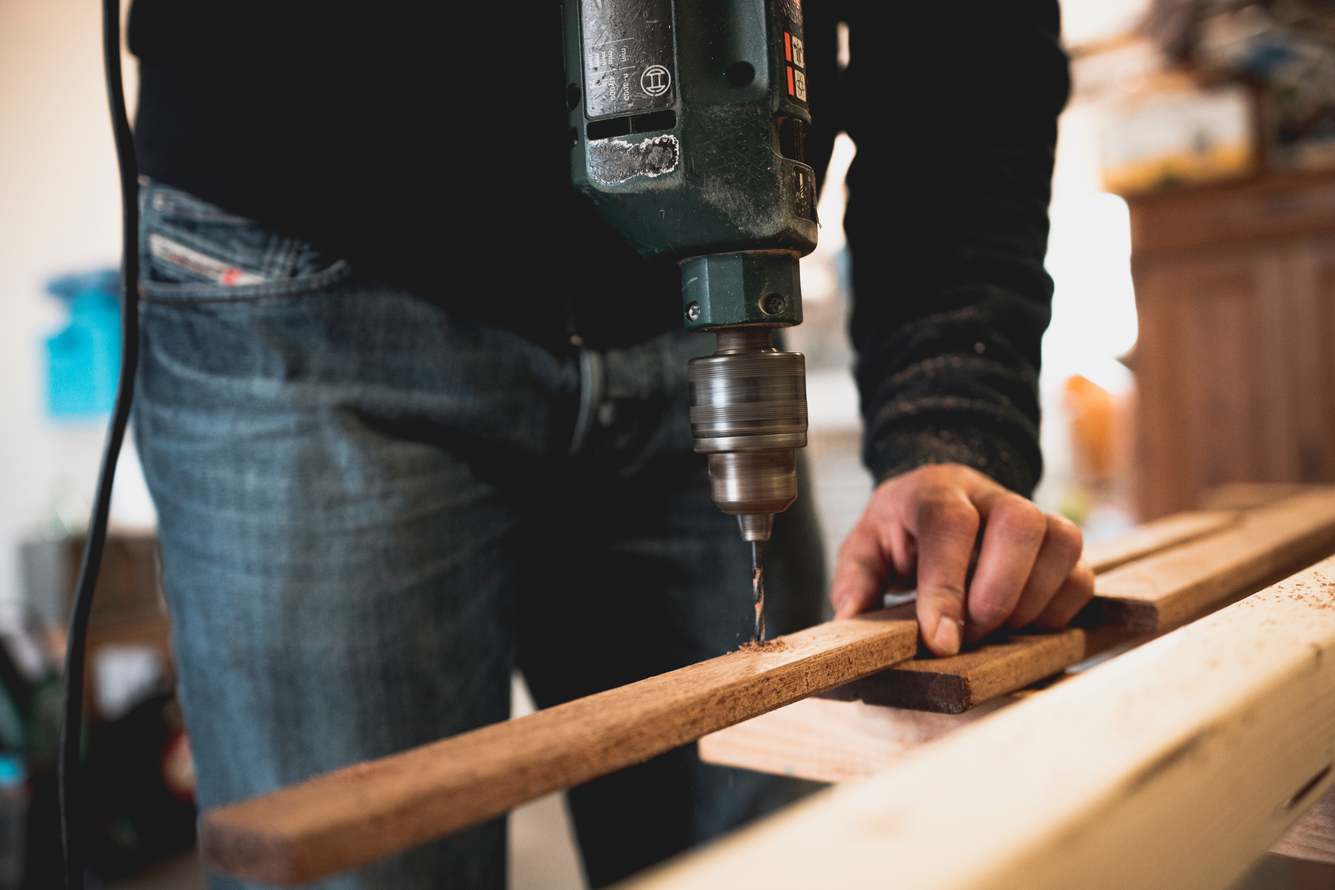
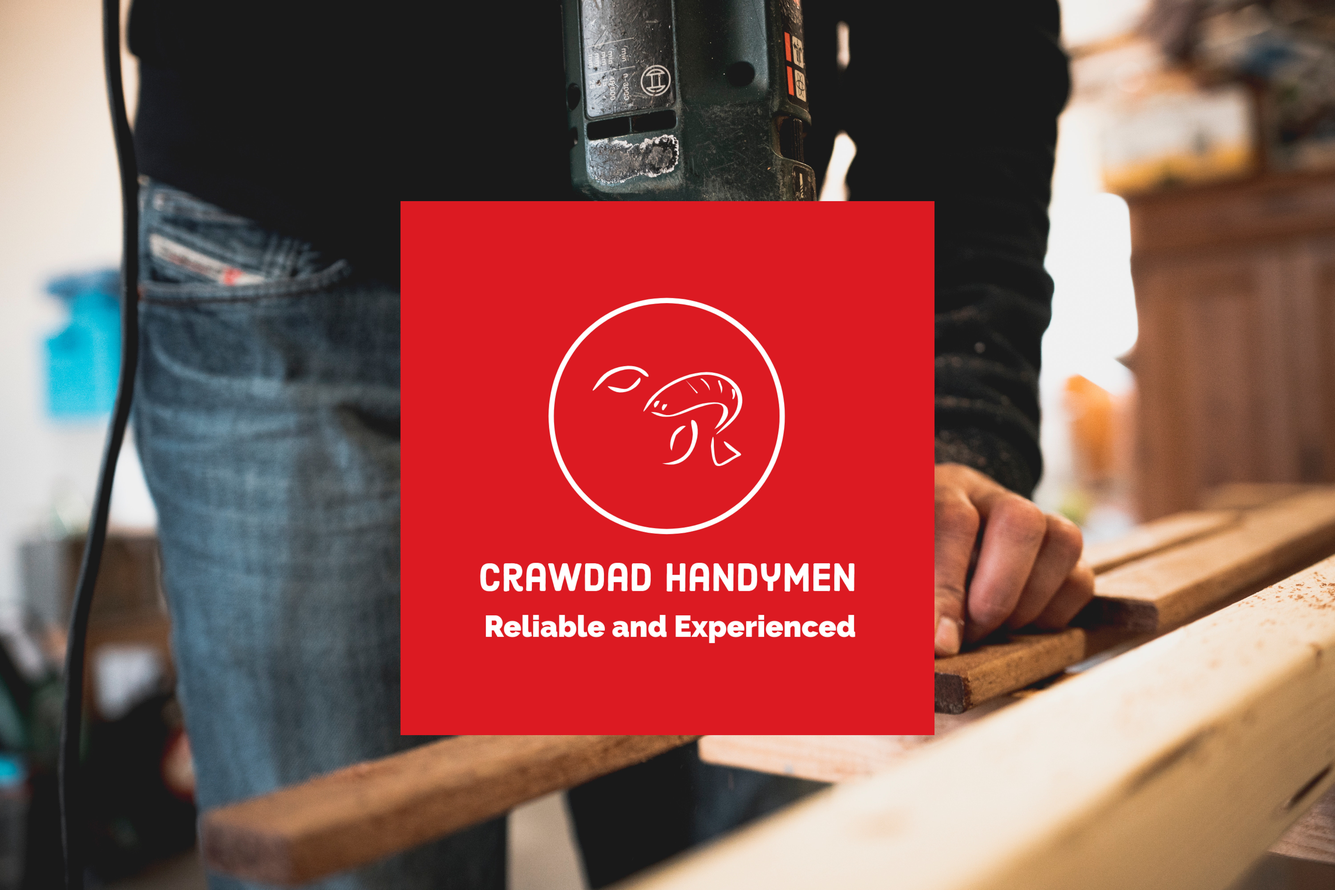
lots of progress, nearly done, dummy pics and data needs altering and footer needs formatting

Changed region(s): [[0.2805, 0.2188, 0.7168, 0.8438]]

diff --git a/src/app/home/home.page.html b/src/app/home/home.page.html
@@ -1,16 +1,102 @@
-<ion-header [translucent]="true">
-  <ion-toolbar>
-    <ion-title>
-      Crawdad Handymen
-    </ion-title>
-  </ion-toolbar>
-</ion-header>
-
 <ion-content [fullscreen]="true">
   <div id="page">
+
     <div id="cover">
-      <img src="../../assets/pics/stock.jpg" />
+      <img src="../../assets/pics/cover_v2.jpeg" />
     </div>
+
+    <div class="navArrow">
+      <ion-icon name="chevron-down-outline"></ion-icon>
+    </div>
+
+    <div id="content">
+
+      <div id="blurbs">
+        <div id="blurb">
+          <h2>Why Choose Us?</h2>
+          <p>By choosing us for your next project not only are you hiring qualified and experienced handymen for a fair
+            price,
+            but you are also supporting hard-working college students. </p>
+        </div>
+
+        <div id="blurbTwo">
+          <h2>Where Are We Located?</h2>
+          <h3>
+            <ion-icon name="location-outline"></ion-icon> Lubbock, Texas
+          </h3>
+        </div>
+      </div>
+
+      <div id="book">
+
+        <ion-card class="contact">
+          <ion-card-header>
+            <ion-icon name="mail-outline"></ion-icon>
+            <ion-card-title>Get in Touch</ion-card-title>
+            <ion-card-subtitle>We're happy to help with inquries and estimates.
+            </ion-card-subtitle>
+          </ion-card-header>
+          <ion-card-content>
+            <ion-item>
+              <ion-label position="floating">Name</ion-label>
+              <ion-input type="text"></ion-input>
+            </ion-item>
+            <ion-item>
+              <ion-label position="floating">Message</ion-label>
+              <ion-textarea></ion-textarea>
+            </ion-item>
+          </ion-card-content>
+          <div class="contactBtn">
+            <ion-button fill="outline" color="tertiary">Submit</ion-button>
+          </div>
+        </ion-card>
+      </div>
+
+    </div>
+
+    <div id="bottom">
+
+      <div id="portfolio">
+        <swiper id="slides" [autoplay]="true" [keyboard]="true" [pagination]="false" [scrollbar]="true" [zoom]="true" [loop]="true">
+          <ng-template swiperSlide><img class="pics" src="../../assets/pics/image2.jpeg" /></ng-template>
+          <ng-template swiperSlide><img class="pics" src="../../assets/pics/image3.jpeg" /></ng-template>
+          <ng-template swiperSlide><img class="pics" src="../../assets/pics/image4.jpeg" /></ng-template>
+          <ng-template swiperSlide><img class="pics" src="../../assets/pics/image5.jpeg" /></ng-template>
+          <ng-template swiperSlide><img class="pics" src="../../assets/pics/image6.jpeg" /></ng-template>
+          <ng-template swiperSlide><img class="pics" src="../../assets/pics/image8.jpeg" /></ng-template>
+          <ng-template swiperSlide><img class="pics" src="../../assets/pics/image9.jpeg" /></ng-template>
+          <ng-template swiperSlide><img class="pics" src="../../assets/pics/image0.jpeg" /></ng-template>
+          <ng-template swiperSlide><img class="pics" src="../../assets/pics/image1.jpeg" /></ng-template>
+        </swiper>
+      </div>
+
+      <div id="about">
+        <h2>Who Are We?</h2>
+
+        <div class="profile">
+          <img src="../../assets/pics/clown1.jpg" />
+          <h2>Gavin Naquin</h2>
+          <p>passionate about the quality of his clown career</p>
+        </div>
+
+        <div class="profile" id="profileTwo">
+          <img src="../../assets/pics/clown2.jpg" />
+          <h2>Luffy the Clown</h2>
+          <p>believes kids don't know what they want from clowns.</p>
+        </div>
+
+      </div>
+
+    </div>
+
+    <ion-footer>
+      <ion-toolbar>
+        <ion-title>Direct Contact Information</ion-title>
+        <ion-item>Email: clowns@clown.clown</ion-item>
+        <ion-item>Phone: 911 (in case Luffy snaps again)</ion-item>
+        <ion-item>Report Bug: aintgonnafixit@clown.clown</ion-item>
+      </ion-toolbar>
+    </ion-footer>
 
 
 

diff --git a/src/app/home/home.page.scss b/src/app/home/home.page.scss
@@ -1,3 +1,117 @@
-.cover{
- 
+@import '~swiper/scss';
+@import '~@ionic/angular/css/ionic-swiper';
+
+#page {
+    display: flex;
+    flex-direction: column;    
+    background-color: #003434;
+    color: white;
+    font-family: 'Raleway', sans-serif;
+}
+
+#cover {
+    display: flex;
+    width: 100%;
+    max-height: 93vh;
+}
+
+#cover > img{
+ object-fit: cover;
+}
+
+.navArrow {
+    grid-row: 2;
+    width: 100vw;
+    font-size: 2.5em;
+    display: flex;
+    justify-content: center;
+    margin-top: .3em
+  }
+
+#content {
+    display: flex;
+    flex-wrap:wrap;
+    width: 100%;
+    justify-content: space-around;
+}
+
+#blurbs {
+    display: flex;
+    flex-direction: column;
+    flex-wrap: wrap;
+    max-width: 100vw;
+}
+
+#blurb {
+    margin: 1em;
+    display: flex;
+    flex-direction: column;
+    max-width: 35ch;
+    line-height: 1.5rem;
+}
+
+#blurbTwo {
+    margin: 1em;
+    line-height: 1.5rem;
+    width: 100%
+}
+
+#book {
+    margin: 1em;
+}
+
+ion-card {
+    text-align: center;
+    font-family: 'Raleway', sans-serif;
+   
+}
+
+ion-card > ion-card-content > ion-item > ion-label {
+    font-family: 'Raleway', sans-serif;
+}
+
+ion-card > ion-card-header > ion-icon {
+    font-size: 3em;
+}
+
+#bottom {
+    display: flex;
+    flex-wrap: wrap;
+    width: 100%;
+    justify-content: space-around;
+    margin-top: 5em;
+}
+
+#slides {
+    width: 30em;
+    max-width: 80vw;
+    height: auto;
+}
+
+.pics {
+    max-height: 50vh
+}
+
+#about {
+    max-width: 50ch;
+    margin: 1em
+}
+
+.profile {
+    display: flex;
+    flex-wrap:wrap;
+    flex-direction: column;
+    width: 100%;
+    margin-top: 1em;
+    margin-bottom: 1em
+}
+
+.profile > img {
+    max-width: 10em;
+    height: auto;
+}
+
+#profileTwo > h2, #profileTwo > img, #profileTwo > p {
+   align-self: end;
+   text-align: end;
 }

diff --git a/src/index.html b/src/index.html
@@ -12,7 +12,10 @@
   <meta name="format-detection" content="telephone=no" />
   <meta name="msapplication-tap-highlight" content="no" />
 
-  <link rel="icon" type="image/png" href="../src/assets/icon/logo.png" />
+  <link rel="icon" type="ico" href="../src/assets/icon/logo.ico" />
+  <link rel="preconnect" href="https://fonts.googleapis.com">
+  <link rel="preconnect" href="https://fonts.gstatic.com" crossorigin>
+  <link href="https://fonts.googleapis.com/css2?family=Raleway:wght@900&display=swap" rel="stylesheet">
 
   <!-- add to homescreen for ios -->
   <meta name="apple-mobile-web-app-capable" content="yes" />

diff --git a/src/app/home/home.module.ts b/src/app/home/home.module.ts
@@ -3,6 +3,7 @@ import { CommonModule } from '@angular/common';
 import { IonicModule } from '@ionic/angular';
 import { FormsModule } from '@angular/forms';
 import { HomePage } from './home.page';
+import { SwiperModule } from 'swiper/angular';
 
 import { HomePageRoutingModule } from './home-routing.module';
 
@@ -12,7 +13,8 @@ import { HomePageRoutingModule } from './home-routing.module';
     CommonModule,
     FormsModule,
     IonicModule,
-    HomePageRoutingModule
+    HomePageRoutingModule,
+    SwiperModule
   ],
   declarations: [HomePage]
 })

diff --git a/src/app/home/home.page.ts b/src/app/home/home.page.ts
@@ -1,9 +1,13 @@
-import { Component } from '@angular/core';
+import { Component, ViewEncapsulation } from '@angular/core';
+import SwiperCore, { Autoplay, Keyboard, Pagination, Scrollbar, Zoom } from 'swiper';
+
+SwiperCore.use([Autoplay, Keyboard, Pagination, Scrollbar, Zoom]);
 
 @Component({
   selector: 'app-home',
   templateUrl: 'home.page.html',
   styleUrls: ['home.page.scss'],
+  encapsulation: ViewEncapsulation.None
 })
 export class HomePage {
 

diff --git a/src/global.scss b/src/global.scss
@@ -9,6 +9,14 @@
  * https://ionicframework.com/docs/layout/global-stylesheets
  */
 
+@import '~swiper/scss';
+@import '~@ionic/angular/css/ionic-swiper';
+@import '~swiper/scss/autoplay';
+@import '~swiper/scss/keyboard';
+@import '~swiper/scss/pagination';
+@import '~swiper/scss/scrollbar';
+@import '~swiper/scss/zoom';
+ 
 /* Core CSS required for Ionic components to work properly */
 @import "~@ionic/angular/css/core.css";
 

diff --git a/src/theme/variables.scss b/src/theme/variables.scss
@@ -3,6 +3,7 @@
 
 /** Ionic CSS Variables **/
 :root {
+
   /** primary **/
   --ion-color-primary: #3880ff;
   --ion-color-primary-rgb: 56, 128, 255;
